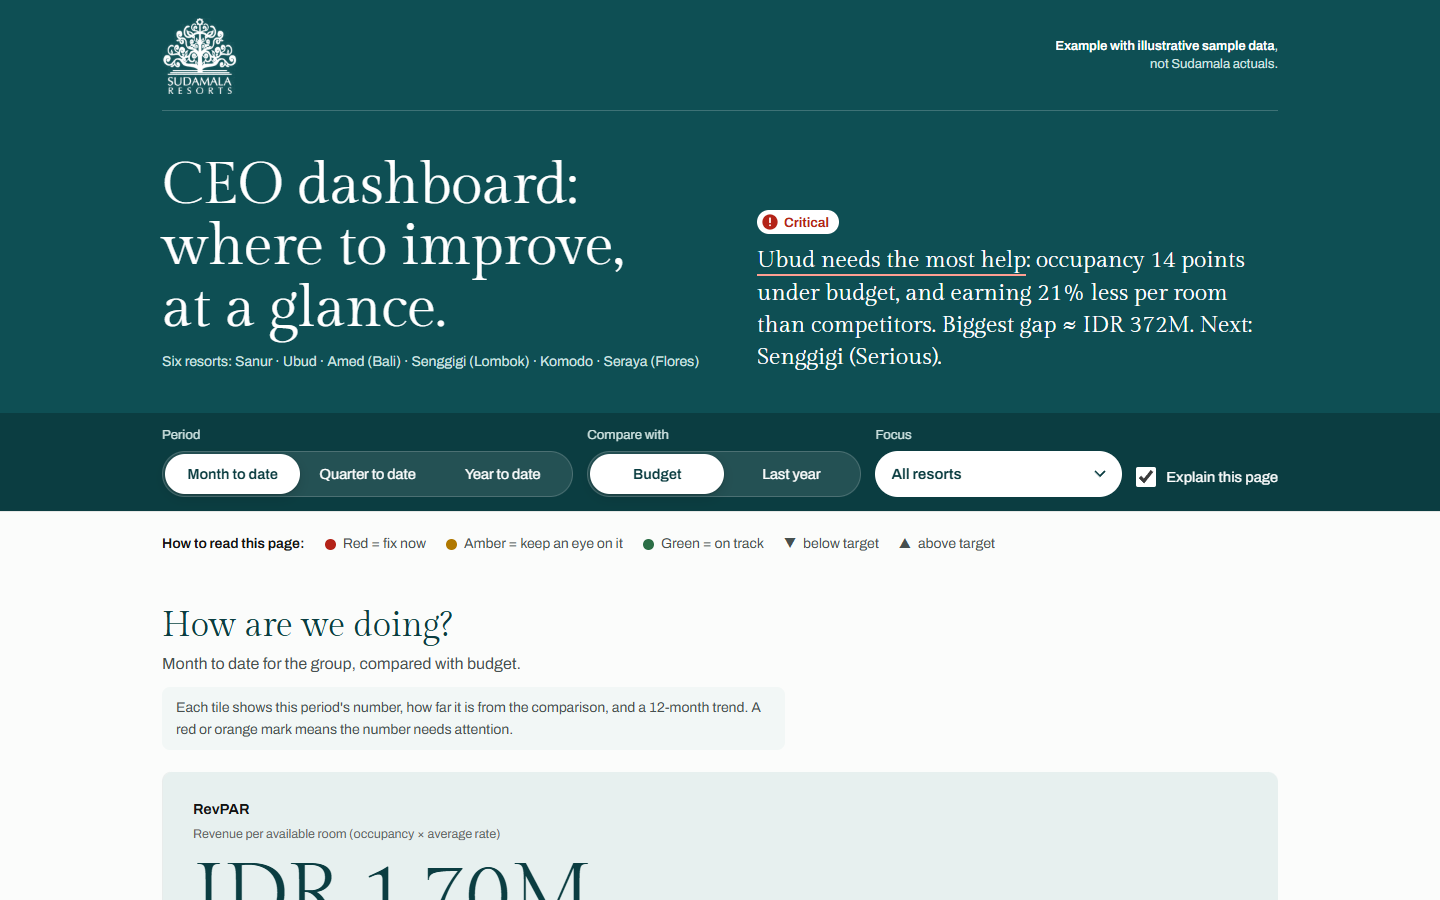
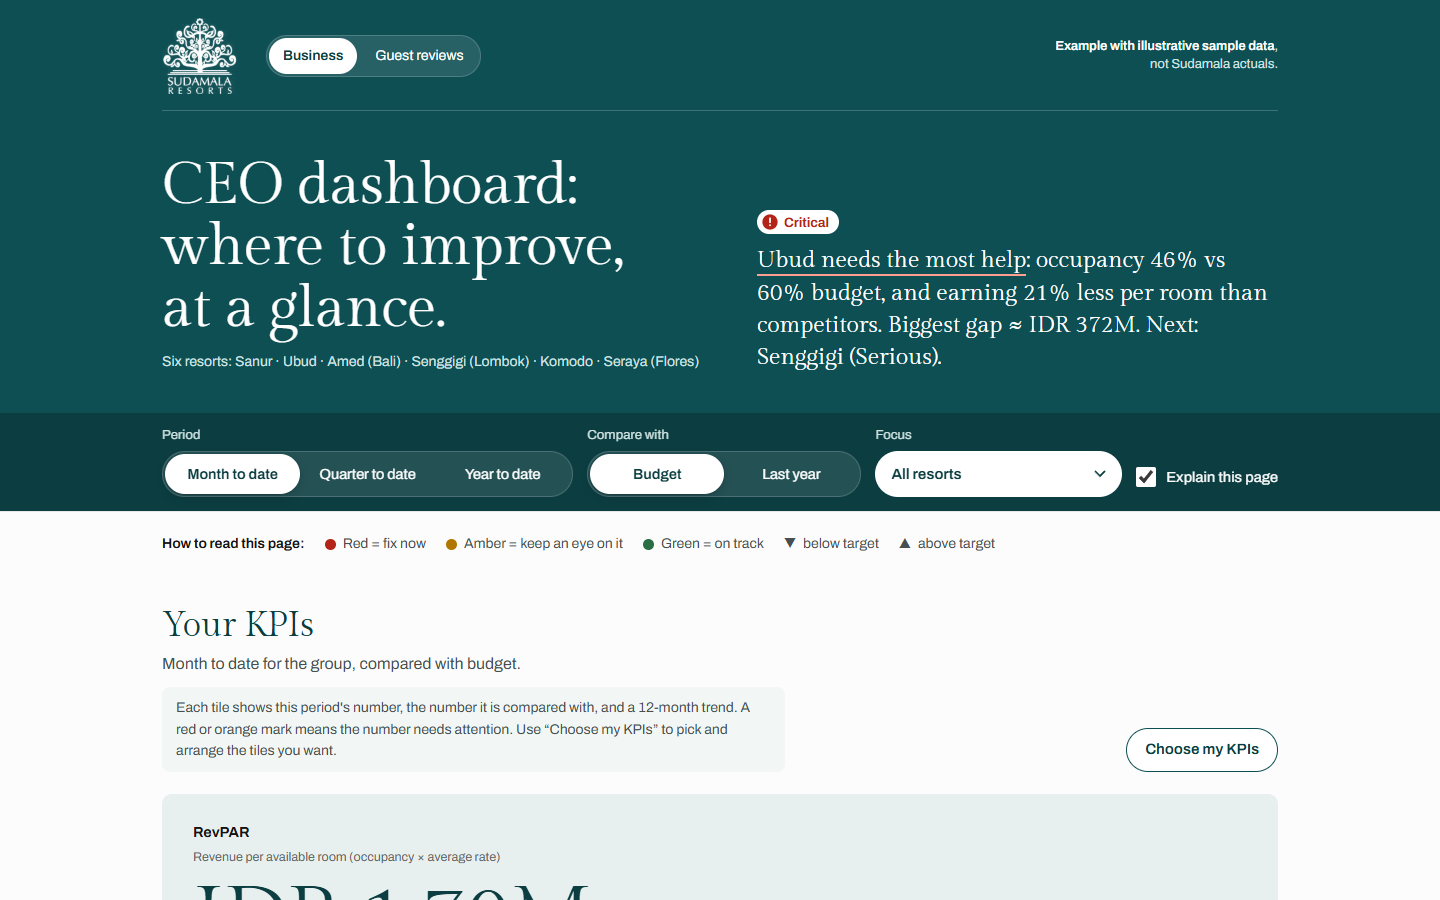
KPI board: touch-sized drag handle, actual numbers instead of points
Your KPIs board lets the CEO pick and arrange tiles (drag and drop, or
buttons), saved in the browser. Every comparison now shows the actual
number against its budget, last year or target.

diff --git a/app.js b/app.js
@@ -179,7 +179,7 @@ function issuesFor(r, p) {
   if (d.pace != null && d.pace <= -5) add({
     key: "pace", sev: "serious",
     head: `${r.name}: next 90 days are ${Math.abs(d.pace)}% behind last year`,
-    detail: "Room nights already booked for the next 90 days, vs the same point last year",
+    detail: "Room nights already booked for the next 90 days, vs the same time last year",
     owner: "CMO", action: "retargeting and an early-booking offer in top markets",
     money: Math.abs(d.pace) / 100 * rev * (90 / days), moneyWhat: "revenue at risk, next 90 days"
   });
@@ -335,8 +335,8 @@ function kpiDefs() {
     rgi: { label: "RevPAR index", helper: "Our RevPAR vs competitors; 100 = fair share", value: String(round(rgi)), vsName: "Fair share", vsValue: "100",
       dir: round(rgi) - 100, sev: rgi < 85 ? "critical" : rgi < 95 ? "serious" : round(rgi) < 100 ? "watch" : "ok" },
     pace: pace == null
-      ? { label: "Next 90 days booked", helper: "Room nights on the books vs last year at this point", value: "n/a", vsName: "Last year", vsValue: "none (new resort)", dir: 0, sev: "ok" }
-      : { label: "Next 90 days booked", helper: "Room nights on the books, as a share of last year at this point", value: round(100 + pace) + "%",
+      ? { label: "Next 90 days booked", helper: "Room nights on the books vs last year at this time", value: "n/a", vsName: "Last year", vsValue: "none (new resort)", dir: 0, sev: "ok" }
+      : { label: "Next 90 days booked", helper: "Room nights on the books, as a share of last year at this time", value: round(100 + pace) + "%",
           vsName: "Last year", vsValue: "100%", dir: round(pace), sev: band(round(pace), null, -5, -1) },
     resp: { label: "Review replies", helper: "Share of guest reviews answered", value: respA + "%", vsName: "Target", vsValue: TARGETS.reviewReplies + "%",
       dir: respA - TARGETS.reviewReplies, sev: band(respA - TARGETS.reviewReplies, null, -25, -8) }
@@ -1103,7 +1103,7 @@ function renderMixChart(def) {
 function renderPaceChart(def) {
   const p = state.period;
   const rows = [...RESORTS].sort((a, b) => (a.p[p].pace ?? 99) - (b.p[p].pace ?? 99));
-  def.sub.textContent = `Room nights already booked for the next 90 days vs the same point last year (${PERIOD_LABEL[p]} view).`;
+  def.sub.textContent = `Room nights already booked for the next 90 days vs the same time last year (${PERIOD_LABEL[p]} view).`;
   legendItems(def, [["lg-box", "Behind last year", { background: C.crit }], ["lg-box", "Ahead of last year", { background: C.brandSoft }]]);
   const W = Math.max(280, def.plotWrap.clientWidth || 520), lw = 78, rowH = 24, gap = 16, mt = 4, vr = 44;
   const H = mt + rows.length * (rowH + gap);

diff --git a/styles.css b/styles.css
@@ -208,7 +208,7 @@ h3 { font-size: 17px; line-height: 1.3; font-weight: 650; }
 .tiles.is-editing { padding: 12px; margin: 0 -12px; border-radius: 14px; outline: 1.5px dashed var(--brand-soft); outline-offset: -1px; transition: background-color 160ms ease; }
 .tiles.is-drop { background: var(--tint-2); }
 .kpi-ctl { display: flex; align-items: center; gap: 4px; margin: -6px -6px 2px; }
-.kpi-grip { display: inline-flex; align-items: center; justify-content: center; width: 40px; height: 40px; margin-right: auto; color: var(--ink-3); font-size: 20px; cursor: grab; touch-action: none; border-radius: 8px; user-select: none; }
+.kpi-grip { flex: none; display: inline-flex; align-items: center; justify-content: center; width: 40px; height: 40px; margin-right: auto; color: var(--ink-3); font-size: 20px; cursor: grab; touch-action: none; border-radius: 8px; user-select: none; }
 .kpi-btn {
   min-width: 36px; height: 36px; padding: 0 8px; border: 1px solid var(--line); border-radius: 999px; background: #fff; color: var(--brand-ink);
   font-size: 15px; font-weight: 600; cursor: pointer; transition: background-color 160ms ease, transform 160ms var(--ease-out);
@@ -412,6 +412,9 @@ body.is-dragging-kpi, body.is-dragging-kpi * { cursor: grabbing !important; user
   .score { min-width: 720px; }
   .ov-reg, .ov-sea, .ov-town, .ov-mark .ov-text { display: none; }
   .chart { padding: 16px 14px 14px; }
+  .kpi-ctl { gap: 2px; margin: -8px -8px 2px; }
+  .kpi-grip { width: 38px; height: 38px; }
+  .kpi-btn:not(.kpi-add) { min-width: 32px; height: 32px; padding: 0; flex: none; }
   .resort-row .rrev { grid-column: 2; grid-row: 1; }
 }
 
